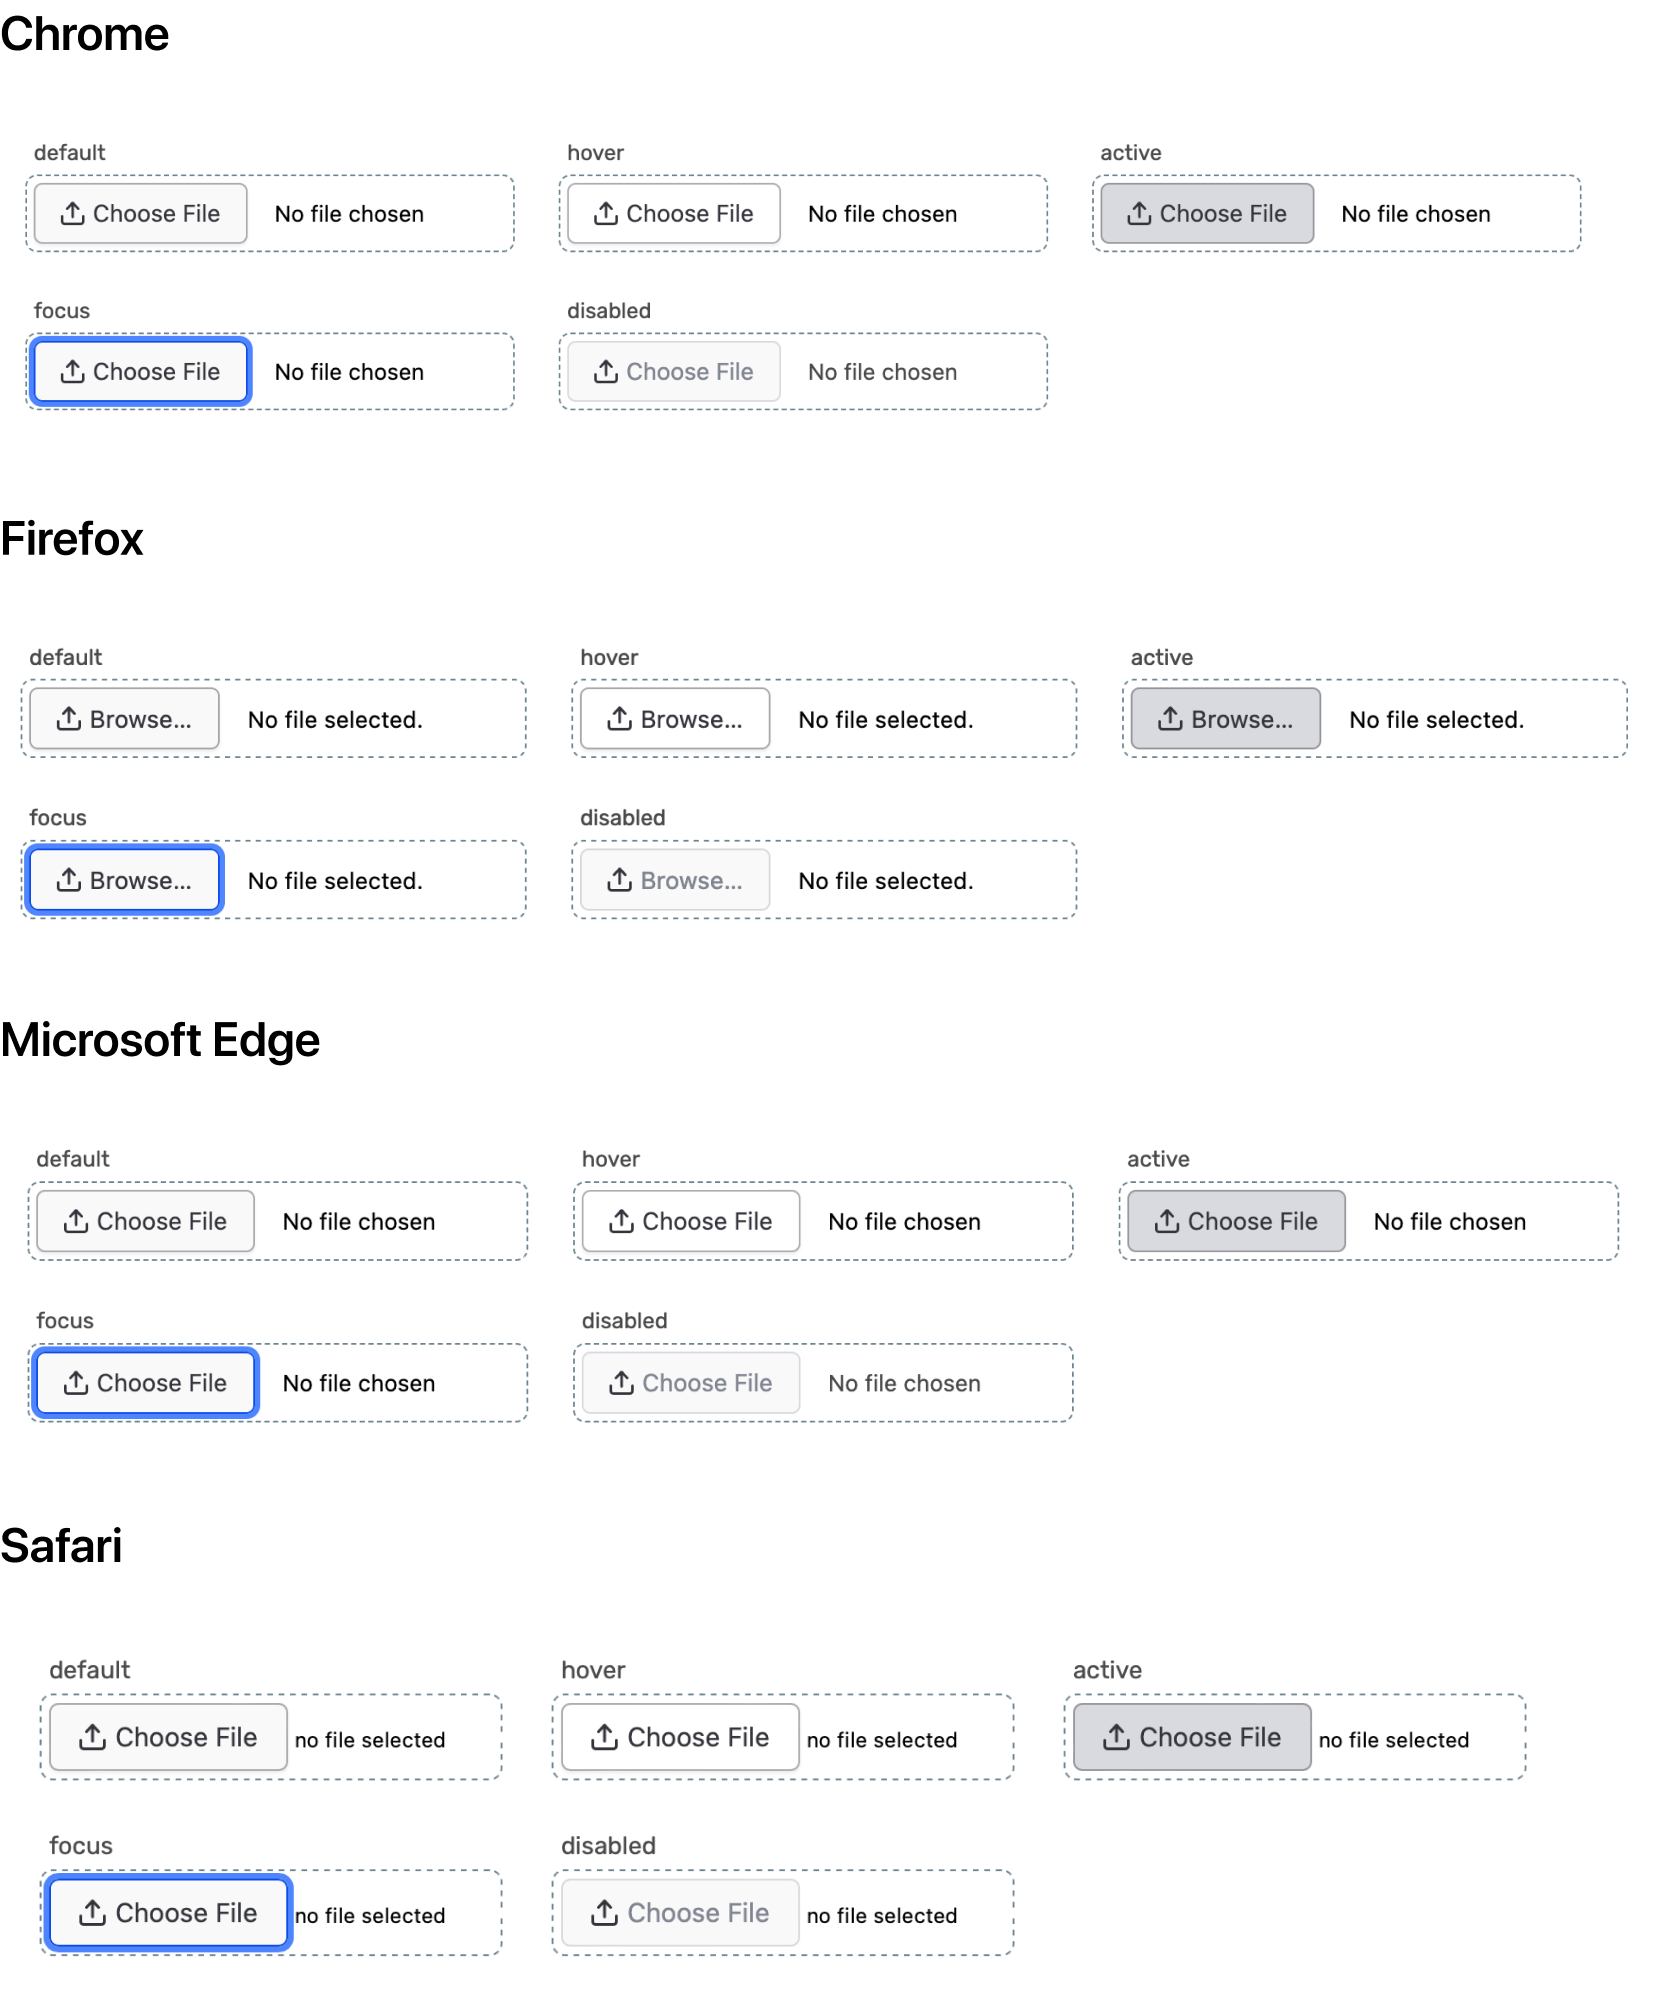
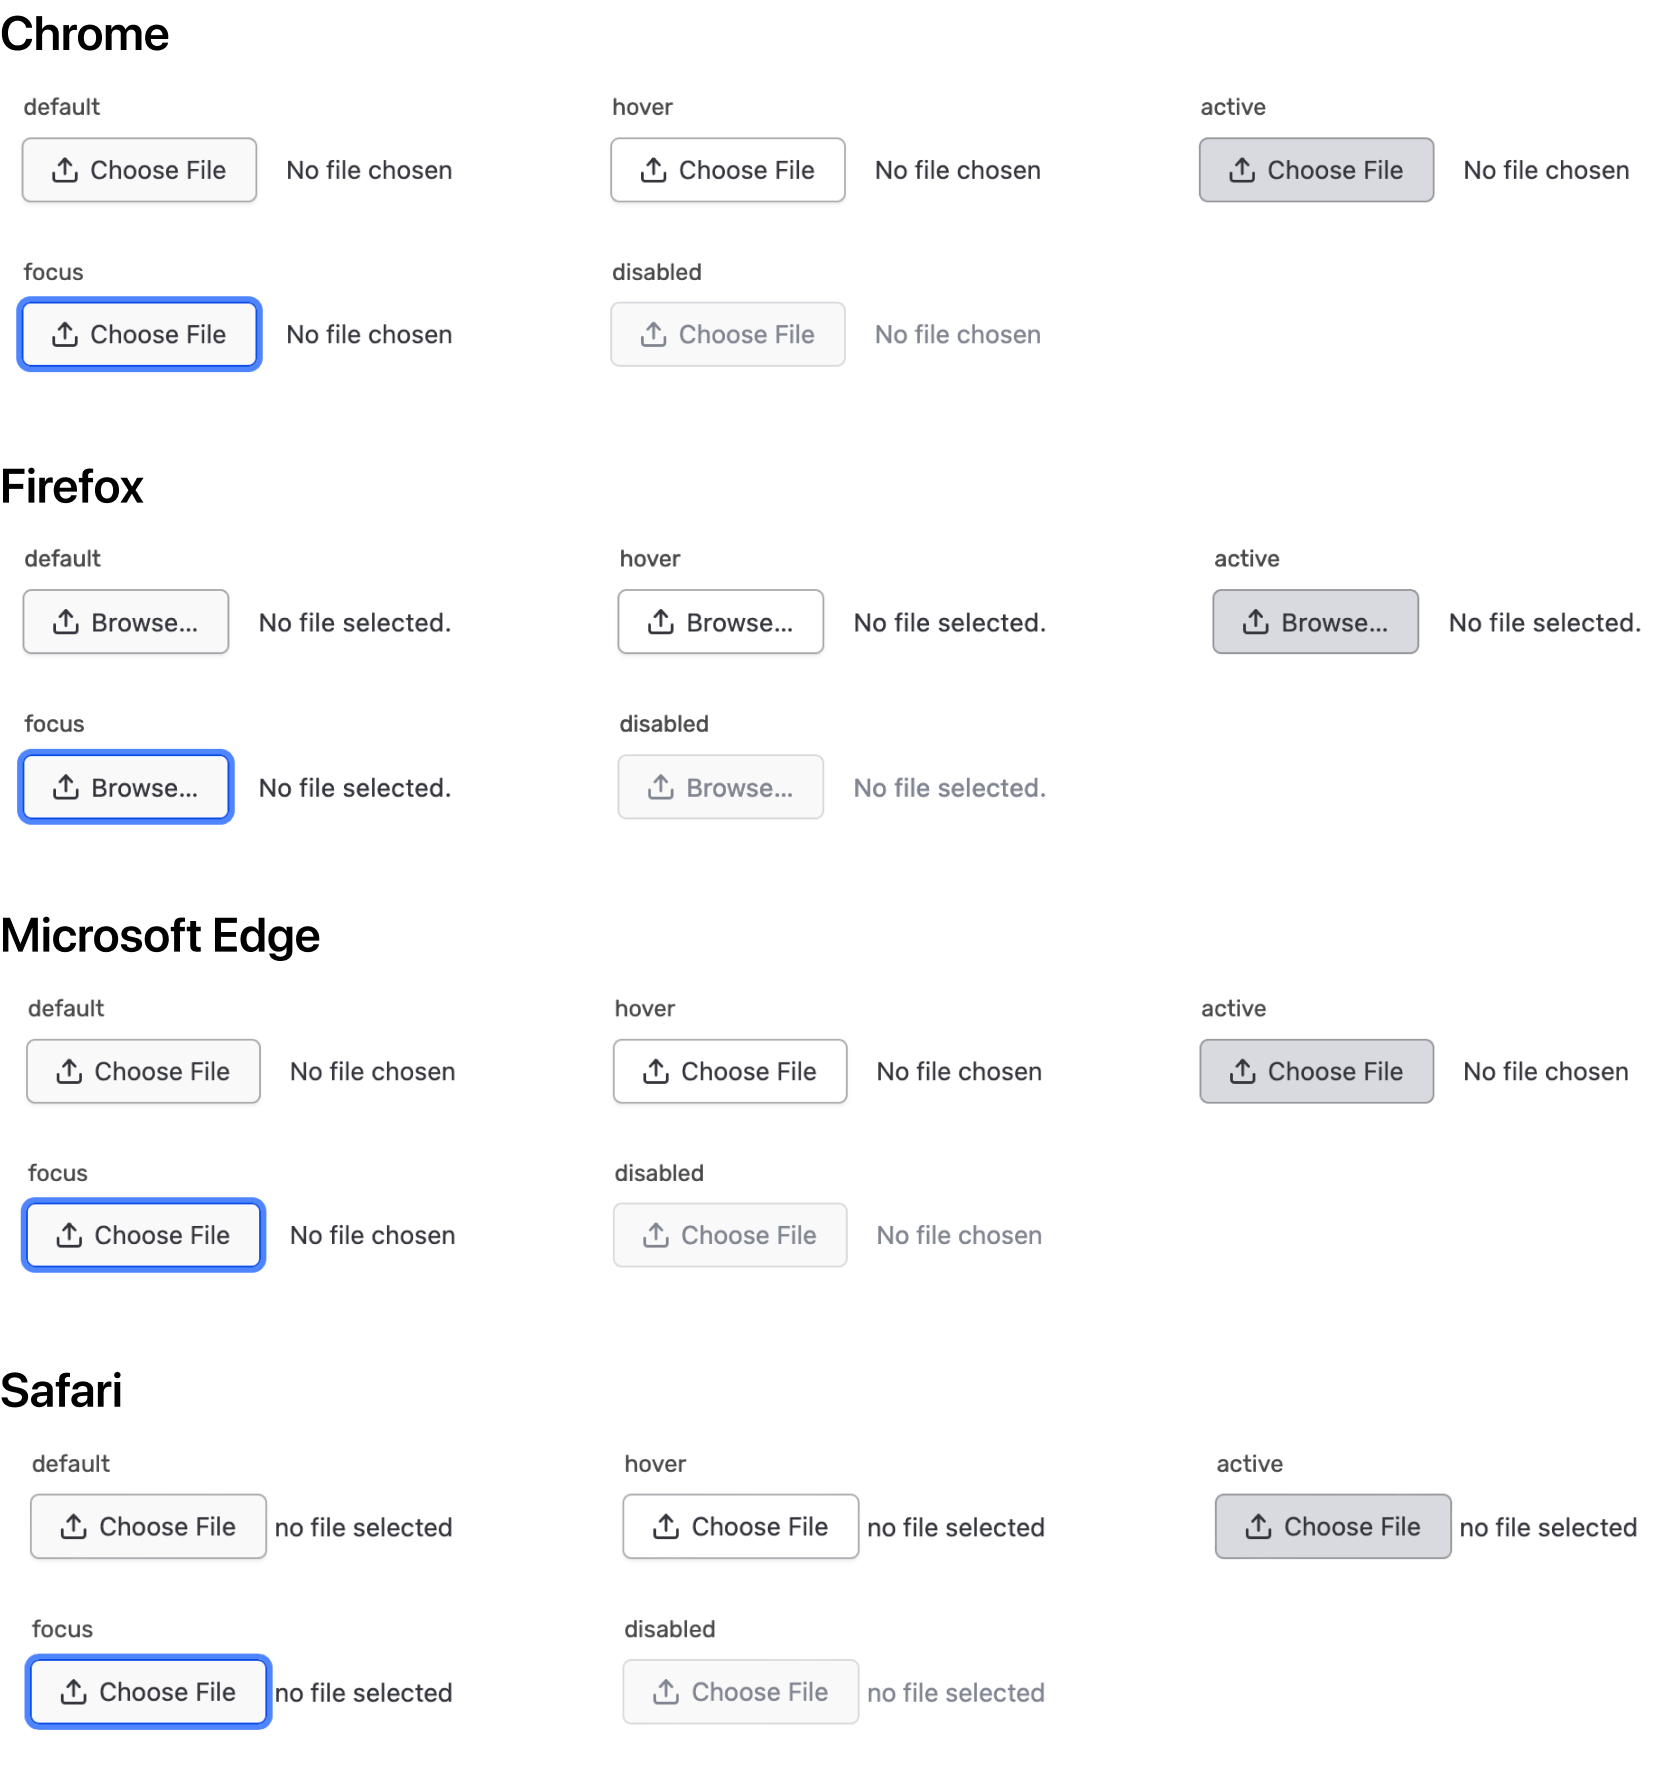
Guidelines.md

diff --git a/website/docs/components/form/file-input/partials/guidelines/guidelines.md b/website/docs/components/form/file-input/partials/guidelines/guidelines.md
@@ -14,17 +14,19 @@ File Input accepts [all native HTML types](https://developer.mozilla.org/en-US/d
 
 ### Disabled State 
 
-The File Input lets users add documents and images. If disabled, users may feel confused, frustrated, and unsure about why it's not working.
+The File Input component lets users add documents and images. If disabled, users may feel confused, frustrated, and unsure about why it's not working.
 
-Instead of disabling the file input component, consider these options:
+Instead of disabling the file input component, consider these options: 
 
-- Include explanatory text or prompts: If you display the disabled file input, explain why it's disabled and what users need to do to enable it. You can use a tooltip, a pop-up message, or an instructional sentence.
+- Include explanatory text or prompts: If you display a disabled file input, explain why it's disabled and what users need to do to enable it. You can use a tooltip, or an instructional sentence.
 
 - Use progressive disclosure: Display or enable the file input only when users meet certain conditions (e.g., after completing the necessary information). This approach guides users step-by-step and presents relevant options based on their progress.
 
 ### Truncation
 
 Truncation works differently in Figma and the browser. In Figma, truncation occurs at the end of the text, while in the browser, it will truncate text in the middle.
+
+![visual diffrence in truncation between figma and browser](/assets/components/form/file-input/file-input-truncation.png)
 
 ### Multiple Files 
 

diff --git a/website/docs/components/form/file-input/partials/specifications/anatomy.md b/website/docs/components/form/file-input/partials/specifications/anatomy.md
@@ -1,15 +1,13 @@
 ## Anatomy
 
-<!-- image then table -->
-![Anatomy of formFileInput](/assets/components/alert/form-file-input-anatomy-inline.png)
+![Anatomy of File Input](/assets/components/form/file-input/file-input-anatomy.png)
 
-<!-- this is just an example, refer to other components to see how to fill this table -->
-| Element          | Usage                                           |
-|------------------|-------------------------------------------------|
-| Icon             | Optional, but recommended                       |
-| Title            | Required, if no description Optional, otherwise |
-| Description      | Required, if no title Optional, otherwise       |
-| Actions          | Optional                                        |
-| Dismiss button   | Optional                                        |
-| Content          | Required                                        |
-| Container        | Required                                        |
+
+| Element           | Usage                                          |
+|-------------------|------------------------------------------------|
+| Label             | Required                                       |
+| Indicator         | Optional                                       |
+| Helper text       | Optional                                       |
+| Button            | Required                                       |
+| File status       | Required                                       |
+| Error message     | Triggered by system                            |

diff --git a/website/docs/components/form/file-input/partials/specifications/states.md b/website/docs/components/form/file-input/partials/specifications/states.md
@@ -1,2 +1,3 @@
-<!-- populate with examples and documentation of interactive states -->
-<!-- this can usually be found in the design guidelines -->
+## States
+
+![Example of file input states](/assets/components/form/file-input/file-input-states.png)

diff --git a/website/docs/components/form/file-input/partials/guidelines/overview.md b/website/docs/components/form/file-input/partials/guidelines/overview.md
@@ -1,1 +1,1 @@
-{description}
+A file input enables the user to select a file from their computer.
